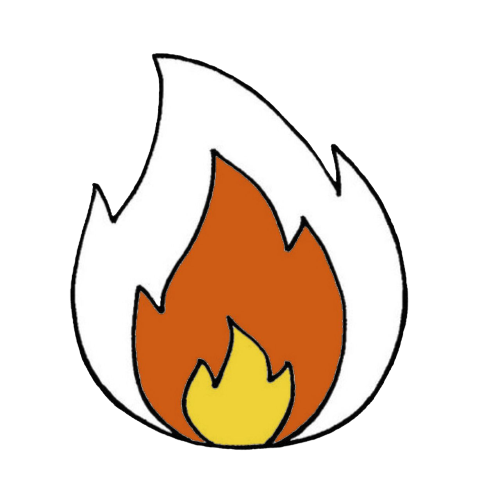
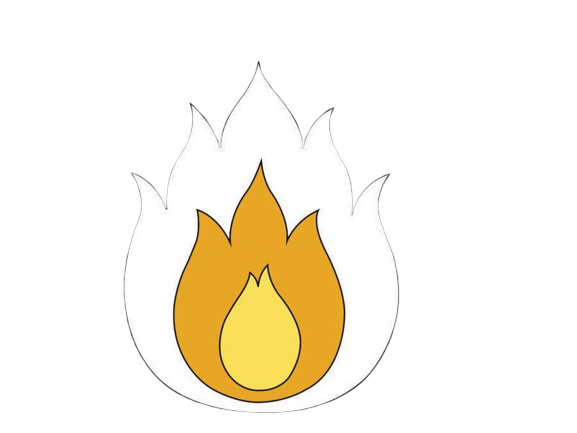
changed fire animation

diff --git a/README.md b/README.md
@@ -23,5 +23,5 @@ A cinametic animation based on Phaser3 (JavaScript)
 
 *Citations:*
 - Rocket image: found from a website that has public domain pictures. https://clipartix.com/rocket-clipart-image-11846/. Changed the thickness of the window and added some lines at the top of the rocket. Also, changed to transparent background.
-- Fire image: https://howtodraweasy.net/how-to-draw-fire-for-kids/. Took a black and white image and recolored it.
+- Fire image: Image by <a href="https://pixabay.com/users/królestwo_nauki-17664295/?utm_source=link-attribution&amp;utm_medium=referral&amp;utm_campaign=image&amp;utm_content=6904983">Królestwo_Nauki</a> from <a href="https://pixabay.com//?utm_source=link-attribution&amp;utm_medium=referral&amp;utm_campaign=image&amp;utm_content=6904983">Pixabay</a>. Recolored the picture.
 - Pricedown font: https://www.1001fonts.com/pricedown-font.html. Based on the website, "This font includes a license that allows free commercial use: sometimes referred to as a desktop license."
